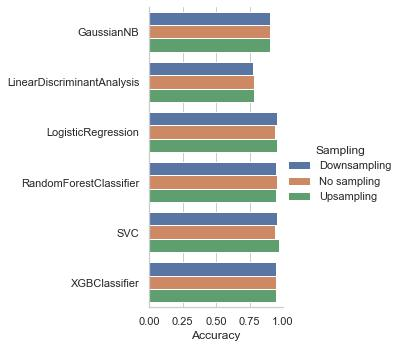
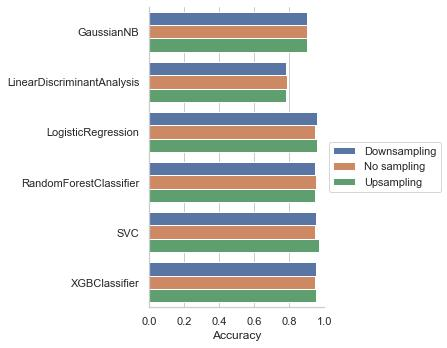
added ROC plot

Changed region(s): [[0.0, 0.0287, 0.9875, 0.977], [0.6584, 0.0287, 0.6883, 0.1724], [0.6284, 0.1724, 0.6584, 0.3161]]

diff --git a/code/model_comparison.py b/code/model_comparison.py
@@ -1,6 +1,9 @@
+import numpy as np
 import pandas as pd
 import matplotlib.pyplot as plt
 import seaborn as sns
+import pickle
+from sklearn.metrics import recall_score, precision_score, accuracy_score, f1_score, roc_auc_score, roc_curve
 sns.set_theme(style="whitegrid")
 
 #plot colors: [grey, blue, orange, green, pink, brown, purple, yellow, red]
@@ -22,34 +25,47 @@ df_downsampling = pd.read_csv('../output/modeling/downsampling/csv/df_scores.csv
 df = pd.concat([df_no_sampling, df_upsampling, df_downsampling],
                axis=0).reset_index().drop('index', axis=1)
 
-
+# Plot side-by-side barplots to compare models, metrics, and sampling methods.
 for idx, val in enumerate(df.columns[2:]):
-    sorted_index_descent = df.groupby(['Model']).max().sort_values(by= val,ascending=False).index
     
     df = df.sort_values(by=['Model', 'Sampling',val], ascending=True)
     
     plt.figure(figsize=(10, 10))
-    #ax = sns.scatterplot(data = df, y = 'Model', x = val, hue = 'Sampling', style='Sampling', s=225, linewidth=0, alpha=0.75, markers=('o','s','^'), palette=[medium[1],medium[8],medium[3]])
-    #ax = sns.stripplot(y = df['Model'], x = df[val], hue = df['Sampling'], s=15, jitter=False, order=sorted_index_descent, alpha=0.75, palette=[medium[1],medium[8],medium[3]])
-    ax = sns.catplot(data = df, y = 'Model', x = val, hue = 'Sampling', kind='bar')
+    ax = sns.catplot(data = df, y = 'Model', x = val, hue = 'Sampling', kind='bar', legend=False)
     ax.set(xlim=(0,1))
     ax.set(ylabel=None)
-    # ax.set_ylabel('')
-    # ax.set_xlabel(val)
-    # ax.set_xlim([-.1,1.1])
-    # ax.spines["bottom"].set_color(dark_bright[0])
-    # ax.spines["left"].set_color(dark_bright[0])
-    # ax.spines["top"].set_color(dark_bright[0])
-    # ax.spines["right"].set_color(dark_bright[0])
-    # ax.xaxis.label.set_color(dark_bright[0])
-    # ax.yaxis.label.set_color(dark_bright[0])
-    # ax.title.set_color(dark_bright[0])
-    # ax.tick_params(axis='x', colors = light[0], labelcolor=dark_bright[0])
-    # ax.tick_params(axis='y', colors = light[0], labelcolor=dark_bright[0])
-    # ax.yaxis.set_ticks_position('none')
-    # ax.grid(color = 'w', axis='x')
-    # ax.grid(color = grid[0], axis='y')
-    # ax.legend(loc="upper left")    
-    # ax.set_axisbelow(True)
+    plt.gca().legend().set_title('')
+    plt.legend(bbox_to_anchor=(1.025, .55), loc=2, borderaxespad=0.)
     plt.savefig('../output/modeling/model_comparison/catplot_model_{}.jpg'.format(val), bbox_inches='tight')
     plt.show()
+
+# Load LogisticRegression and SVC models with best parameters.    
+svc = pickle.load(open('../output/modeling/upsampling/models/svc_model.pkl', 'rb'))
+lr = pickle.load(open('../output/modeling/upsampling/models/logisticregression_model.pkl', 'rb'))
+X_test = pd.read_csv('../output/imputation/X_test.csv')
+y_test = pd.read_csv('../output/imputation/y_test.csv')
+
+
+# Plot ROC.
+pred_prob_lr = lr.predict_proba(X_test) 
+pred_prob_svc = svc.predict_proba(X_test) 
+fpr_lr, tpr_lr, thresholds_lr = roc_curve(y_test, pred_prob_lr[:,1])
+fpr_svc, tpr_svc, thresholds_svc = roc_curve(y_test, pred_prob_svc[:,1])
+fig, ax = plt.subplots(figsize=(10, 10))
+ax.plot(fpr_lr, tpr_lr, label='LogisticRegression')
+ax.plot(fpr_svc, tpr_svc, label='SVC')
+ax.plot([0, 1], [0, 1], transform=ax.transAxes, ls="--", c=".3")
+ax.legend()
+ax.grid(False)
+plt.xlim([0.0, 1.0])
+plt.ylim([0.0, 1.0])
+plt.rcParams['font.size'] = 12
+plt.title('ROC')
+plt.xlabel('False Positive Rate (1 - Specificity)')
+plt.ylabel('True Positive Rate (Sensitivity)')
+plt.savefig('../output/modeling/model_comparison/images/ROC_logisticregression_svc.jpg', bbox_inches='tight')
+plt.show()
+
+
+
+
